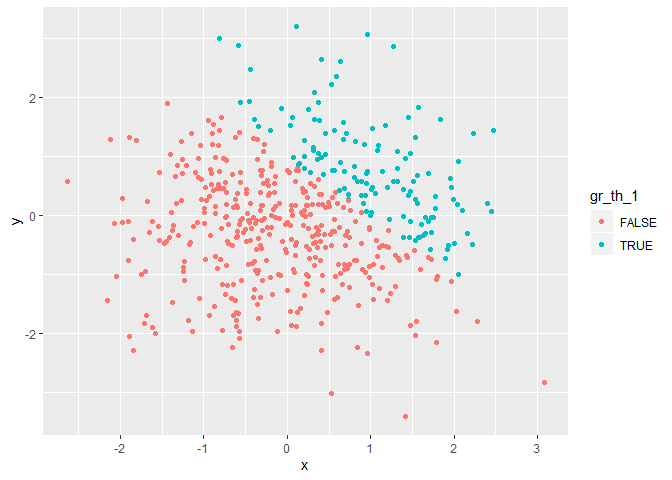
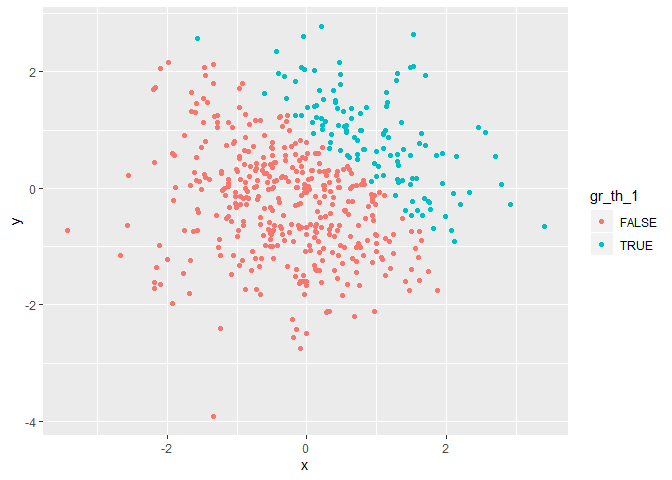
Deleted temporary problem 0.1 because it is unnecessary

diff --git a/p8105_hw1_jt3175.md b/p8105_hw1_jt3175.md
@@ -1,12 +1,7 @@
 Homework 1
 ================
 Julia Thompson
-9/13/2019
-
-## Problem 0.1
-
-This is a very simple R Markdown document for problem 0.1 just to get
-set up.
+9/20/2019
 
 ## Problem 1
 
@@ -42,7 +37,7 @@ words.
 mean(pull(simple_df1, sample_norm))
 ```
 
-    ## [1] 0.4611792
+    ## [1] 0.6777485
 
 ``` r
 mean(pull(simple_df1, gr_th_0))
@@ -115,34 +110,34 @@ rs_x_log_to_fac_to_num = log_to_fac_to_num * pull(simple_df1, sample_norm)
 log_to_num
 ```
 
-    ## [1] 0 1 0 1 1 1 1 0
+    ## [1] 1 1 0 0 1 0 1 1
 
 ``` r
 log_to_fac
 ```
 
-    ## [1] FALSE TRUE  FALSE TRUE  TRUE  TRUE  TRUE  FALSE
+    ## [1] TRUE  TRUE  FALSE FALSE TRUE  FALSE TRUE  TRUE 
     ## Levels: FALSE TRUE
 
 ``` r
 log_to_fac_to_num
 ```
 
-    ## [1] 1 2 1 2 2 2 2 1
+    ## [1] 2 2 1 1 2 1 2 2
 
 ``` r
 rs_x_log_to_num
 ```
 
-    ## [1] 0.0000000 0.4057803 0.0000000 1.1008765 1.8698804 0.8360171 0.6877238
-    ## [8] 0.0000000
+    ## [1] 1.6735333 1.0333406 0.0000000 0.0000000 0.8439434 0.0000000 2.3330887
+    ## [8] 0.6089408
 
 ``` r
 rs_x_log_to_fac_to_num
 ```
 
-    ## [1] -0.2565685  0.8115606 -0.6561347  2.2017530  3.7397607  1.6720342
-    ## [7]  1.3754475 -0.2981416
+    ## [1]  3.3470667  2.0666813 -0.3289838 -0.5646497  1.6878868 -0.1772250
+    ## [7]  4.6661774  1.2178816
 
 ## Problem 2
 
@@ -158,9 +153,9 @@ simple_df2 = tibble(
 
 The above dataframe contains 5 variables *(x, y, gr\_th\_1, log\_num,
 log\_fac)* of 500 observations each. X and y are both normally
-distributed variables. X has a mean of 0.1174541, median of 0.1199176,
-and standard deviation of 1.0026188. The variable *gr\_th\_1* represents
-whether x + y is greater than 1. There are 128/500 cases where x + y is
+distributed variables. X has a mean of -0.0161201, median of -0.0119231,
+and standard deviation of 1.0454934. The variable *gr\_th\_1* represents
+whether x + y is greater than 1. There are 121/500 cases where x + y is
 greater than 1.
 
 Below are three scatterplots of y vs x. On the first, points are colored
